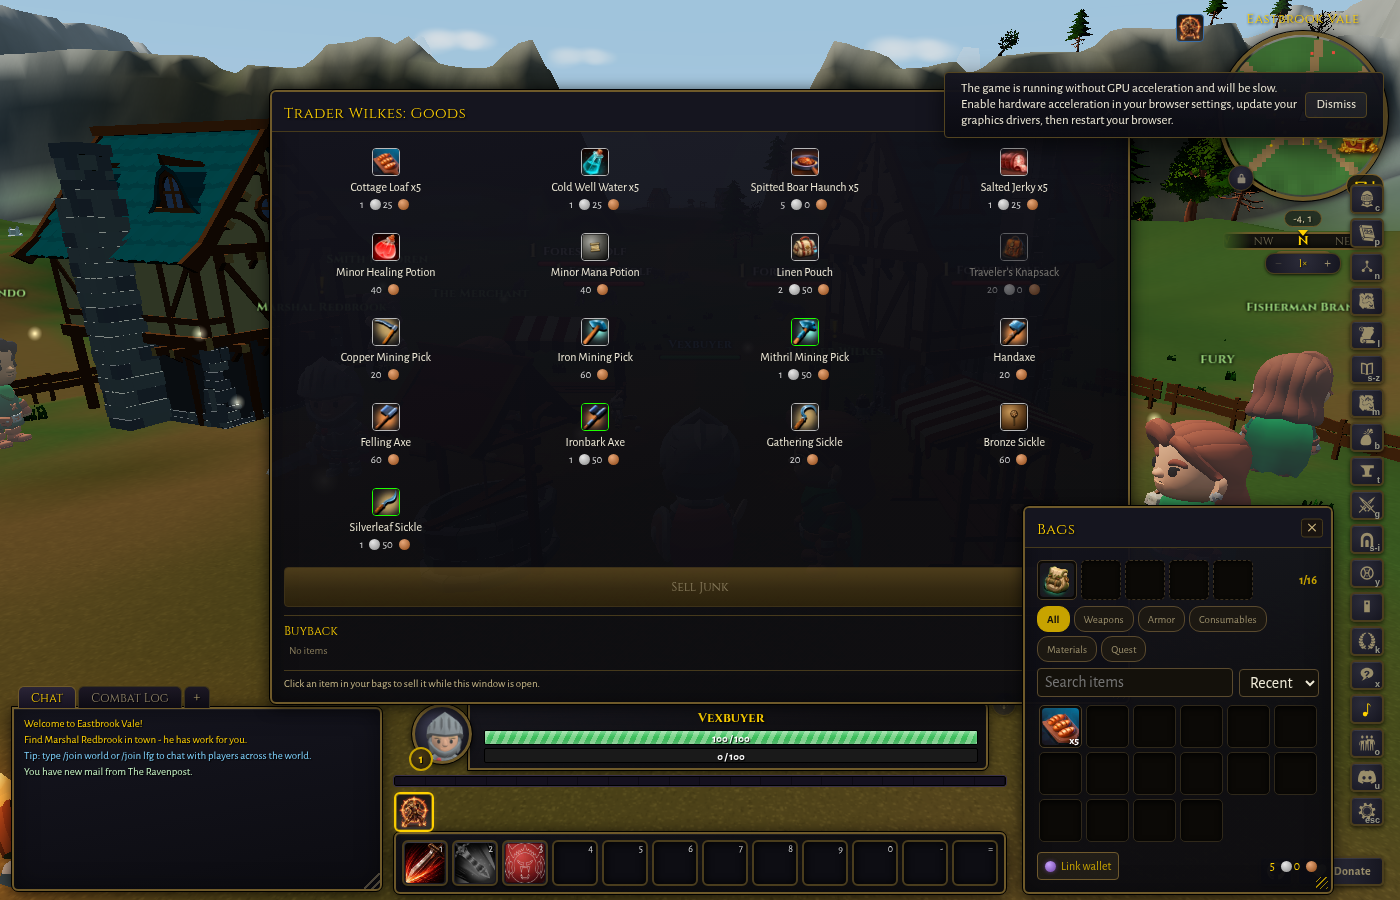
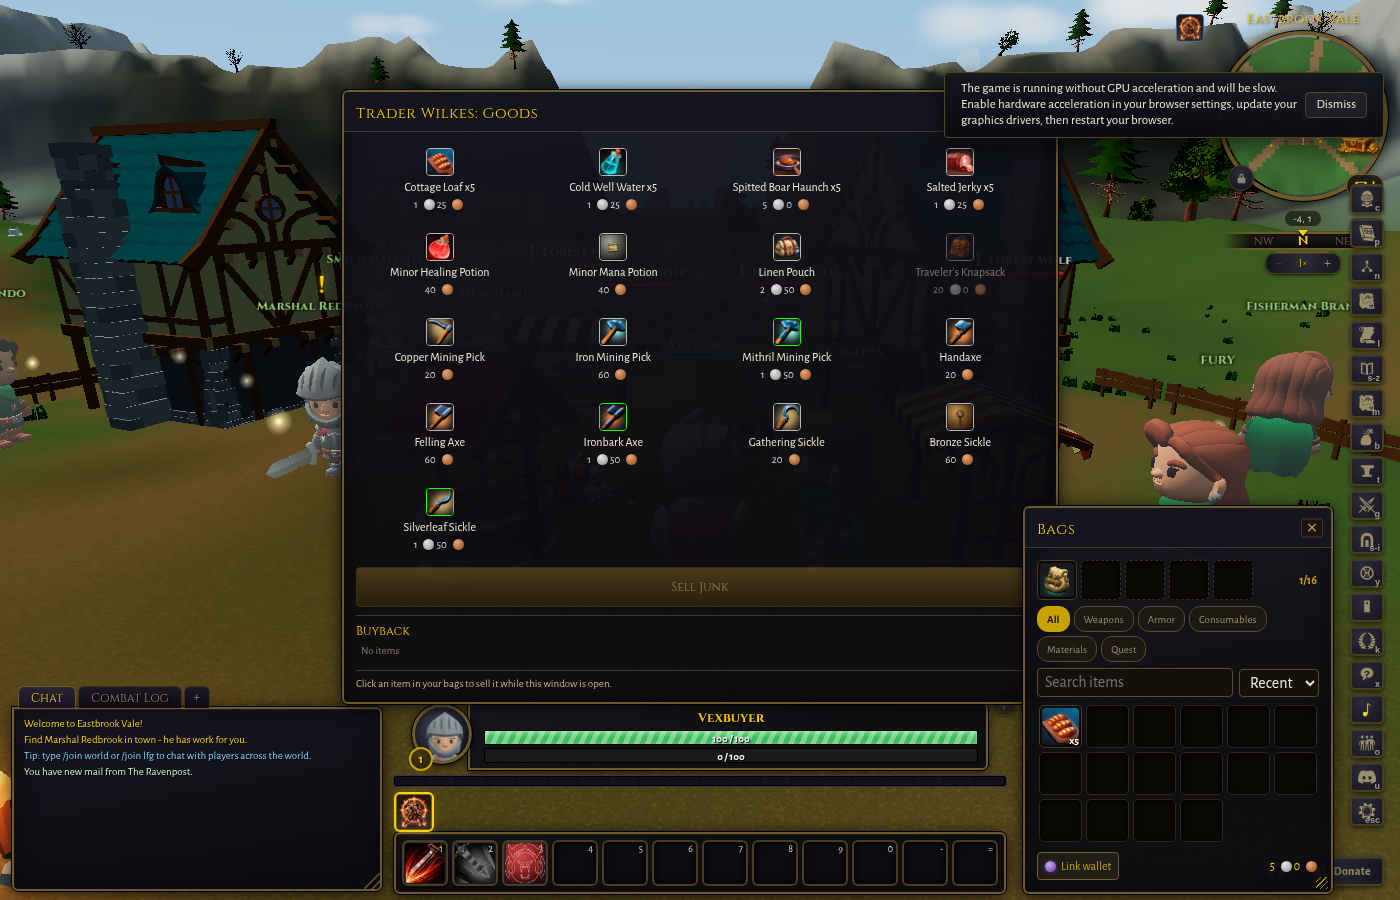
fix(ui): cap vendor window width against the bags reservation
The second maintainer review on PR #2101 found that widening #vendor-window
to min(860px, 92vw) let it slide under the always-open #bags companion
below about 1850px wide, since bags stays anchored to its own bottom-right
reservation instead of moving. Hoist --bags-bar-half and --bags-gap from
SAME reservation instead of a flat viewport fraction, and cap its width so
the right edge always clears the bags column. Switch .vendor-goods-grid from
a fixed repeat(4, ...) to repeat(auto-fill, minmax(140px, 1fr)) so the tile
count follows whatever width results instead of squeezing four undersized
tiles at medium widths.

Also: guard heroic_vendor_window.ts's goods grid append against an empty
view (mirrors vendor_window.ts's existing guard, dropped as a nit in the
second review), and refresh two comments left over from the first-round fix
(hud.mobile.css: the stale "vendor's 58vh cap" reference near #market-window,
and the "packs 4 tiles per row" note now that the grid is auto-fill). The
after-mobile.png and after-desktop.png captures are refreshed to match: the
prior after-mobile.png predated the heroic vendor grid fix and still showed
the old single-column list, and after-desktop.png now shows the width-capped
grid with a clear gap before the bags column.

diff --git a/src/styles/components.css b/src/styles/components.css
@@ -4566,13 +4566,26 @@
      the rows out as tiles in a multi-column grid (.vendor-goods-grid) so it
      reads like a real shop counter instead of a portrait list (issue:
      vendor relayout to landscape grid). The sell-junk button, buyback
-     section title, empty state and hint stay full-width outside the grid. */
+     section title, empty state and hint stay full-width outside the grid.
+     #vendor-window is centred (left: 50%; translateX(-50%), layout.css) while
+     the always-open #bags companion stays anchored to its own bottom-right
+     reservation (--bags-bar-half / --bags-gap, tokens.css), so a flat 92vw
+     cap let the widened window slide UNDER bags below about 1850px wide
+     (maintainer review on PR #2101). Cap the half-width against that same
+     reservation plus its own gap so the vendor window's right edge always
+     clears the bags column instead of a magic viewport fraction. */
   #vendor-window {
-    width: min(860px, 92vw);
+    width: min(
+      860px,
+      calc(var(--app-vw, 100vw) - 2 * (var(--bags-bar-half) + var(--bags-gap) + 24px))
+    );
   }
   .vendor-goods-grid {
     display: grid;
-    grid-template-columns: repeat(4, minmax(0, 1fr));
+    /* auto-fill instead of a fixed repeat(4, ...): once the width cap above
+       shrinks the window on a narrower viewport, the grid drops to 3 or 2
+       columns on its own rather than squeezing 4 undersized tiles. */
+    grid-template-columns: repeat(auto-fill, minmax(140px, 1fr));
     gap: 6px;
   }
   .vendor-item {
@@ -4810,8 +4823,8 @@
   /* ---------- bags ---------- */
   /* bags, centred in the bottom gap between the action cluster and micro-menu */
   #bags {
-    --bags-bar-half: 306px;
-    --bags-gap: 12px;
+    /* --bags-bar-half / --bags-gap now live on :root (tokens.css) so the vendor
+       Goods window's width cap reads the SAME reservation instead of a copy. */
     --bags-micro-r: calc(16px + 34px + var(--bags-gap));
     --bags-slot-w: max(
       180px,

diff --git a/src/styles/hud.mobile.css b/src/styles/hud.mobile.css
@@ -2653,7 +2653,8 @@
     }
   }
   /* The Market carries a tab strip plus the filter selects, which stack to a tall
-     single column on mobile; the vendor's 58vh cap would leave the flex:1 listing
+     single column on mobile; a shorter clamp (like the vendor window's own,
+     see the comment on #vendor-window below) would leave the flex:1 listing
      body (#market-body) zero height, so it collapsed and could not be scrolled.
      Give the window the full available height (like #trade-window) so the listing
      body keeps a usable, touch-scrollable height under the header. */
@@ -2825,9 +2826,11 @@
     border-top: 0;
     padding-top: 0;
   }
-  /* The desktop landscape grid packs 4 tiles per row; a touch viewport is
-     narrower and the tap-target floor below needs the room, so collapse to
-     2 columns (still several per row, never a single portrait list again). */
+  /* The desktop landscape grid auto-fills up to 4 tiles per row (fewer once the
+     window's own width cap shrinks it to avoid the bags column, see the
+     #vendor-window comment in components.css); a touch viewport is narrower
+     and the tap-target floor below needs the room, so collapse to 2 columns
+     (still several per row, never a single portrait list again). */
   body.mobile-touch .vendor-goods-grid {
     grid-template-columns: repeat(2, minmax(0, 1fr));
   }

diff --git a/src/styles/tokens.css b/src/styles/tokens.css
@@ -180,6 +180,12 @@
     --scrollbar-border: #7c6233;
     --app-vw: 100vw;
     --app-vh: 100vh;
+    /* #bags' own reservation half-width + gap (components.css), hoisted here so
+       any OTHER centred window that must not slide under the bottom-right bags
+       column (the vendor Goods window's width cap is the first consumer) reads
+       the SAME numbers instead of re-deriving a copy that can drift out of sync. */
+    --bags-bar-half: 306px;
+    --bags-gap: 12px;
     /* effects tier (wired by src/ui/ui_effects_applier.ts from the pure
        src/game/ui_effects_profile.ts resolver): data-fx-level (low | medium | high
        | ultra) is stamped on the document root, and these three tokens are written
